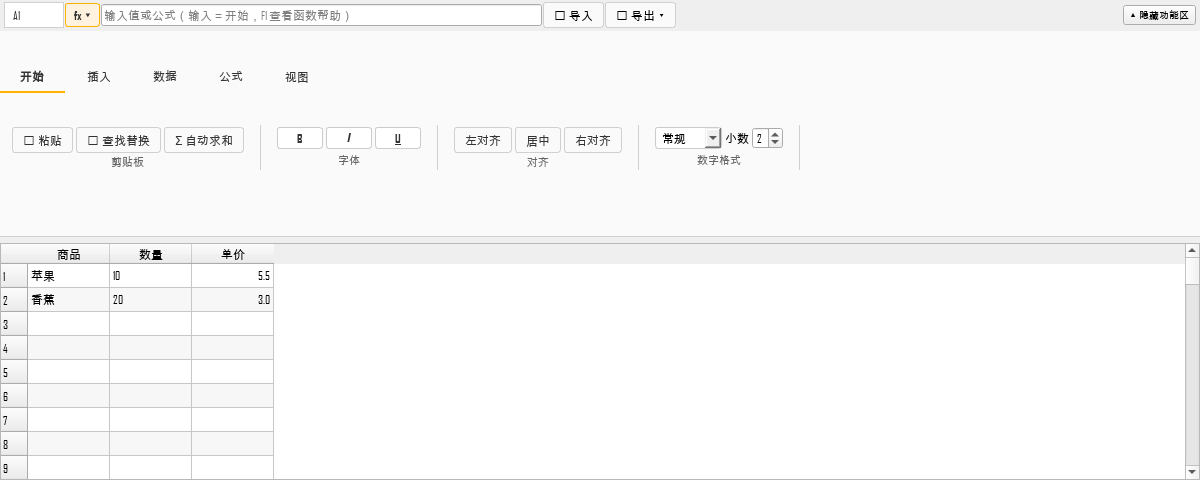
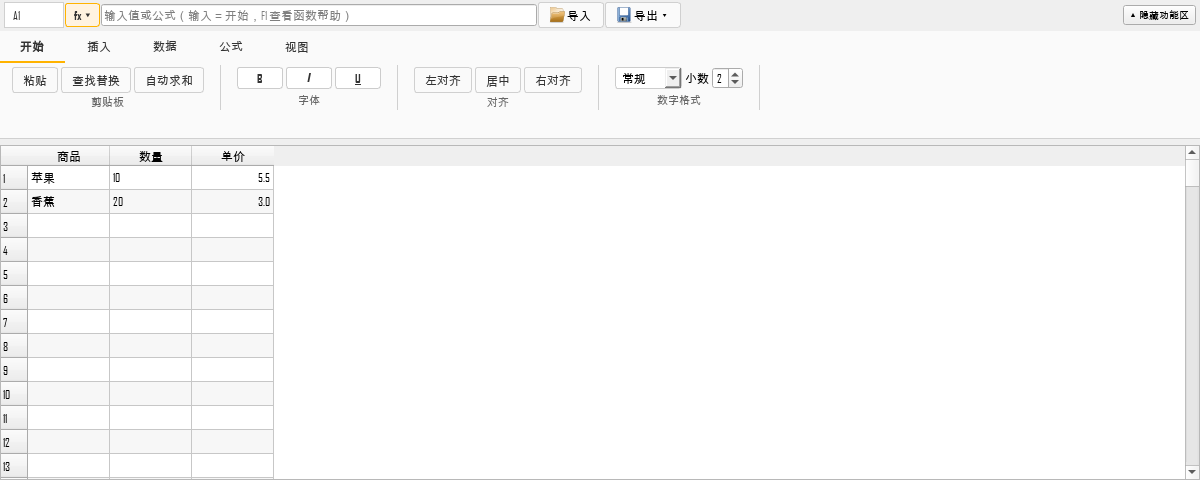
feat(beesheet): WPS 上下文页签/图标/紧凑模式与菜单栏样式

diff --git a/beeoffice/plugins/beesheet_ui_mixin.py b/beeoffice/plugins/beesheet_ui_mixin.py
@@ -44,9 +44,9 @@ from PySide6.QtWidgets import (
     QWidget, QVBoxLayout, QHBoxLayout, QTableView, QHeaderView,
     QLineEdit, QLabel, QPushButton, QComboBox, QSpinBox,
     QListWidget, QAbstractItemView, QProgressBar, QAbstractButton,
-    QGroupBox, QTabBar, QStackedWidget, QFrame, QSizePolicy,
+    QGroupBox, QTabBar, QStackedWidget, QFrame, QSizePolicy, QStyle,
 )
-from PySide6.QtCore import Qt, QTimer
+from PySide6.QtCore import Qt, QTimer, QSettings
 from PySide6.QtGui import QFont, QShortcut, QKeySequence
 
 from beeoffice.plugins.beesheet_delegate import CellEditorDelegate
@@ -227,13 +227,15 @@ class UIMixin:
         self._preview_label.hide()
         t1.addWidget(self._preview_label)
 
-        btn_import = QPushButton(tr("auto.beesheet_ui_mixin.85c5bee6", "📂 导入"))
+        btn_import = QPushButton(tr("auto.beesheet_ui_mixin.85c5bee6", "导入"))
         btn_import.setStyleSheet(btn_style)
+        btn_import.setIcon(self.style().standardIcon(QStyle.SP_DialogOpenButton))
         btn_import.clicked.connect(self._import_file)
         t1.addWidget(btn_import)
 
-        self._export_btn = QPushButton(tr("auto.beesheet_ui_mixin.6810bfb6", "💾 导出 ▾"))
+        self._export_btn = QPushButton(tr("auto.beesheet_ui_mixin.6810bfb6", "导出 ▾"))
         self._export_btn.setStyleSheet(btn_style)
+        self._export_btn.setIcon(self.style().standardIcon(QStyle.SP_DialogSaveButton))
         self._export_btn.clicked.connect(self._show_export_menu)
         t1.addWidget(self._export_btn)
 
@@ -287,6 +289,7 @@ class UIMixin:
         _border = _t()['border']
         _text = _t()['text']
         self._ribbon.setObjectName("BeeRibbon")
+        self._ribbon.setFixedHeight(108)
         self._ribbon.setStyleSheet(
             f"QWidget#BeeRibbon{{background:{_surface};border-bottom:1px solid {_border};}}"
             f"QPushButton{{background:transparent;border:1px solid transparent;"
@@ -304,7 +307,7 @@ class UIMixin:
         ribbon_layout.addWidget(self._ribbon_tabs)
 
         self._ribbon_stack = QStackedWidget()
-        self._ribbon_stack.setFixedHeight(84)
+        self._ribbon_stack.setFixedHeight(76)
         ribbon_layout.addWidget(self._ribbon_stack)
         ribbon_pages = []
 
@@ -348,9 +351,9 @@ class UIMixin:
         # ---------- 开始 ----------
         page_start = add_page("开始")
         clip_group = add_group(page_start, "剪贴板")
-        add_btn(clip_group, tr("auto.beesheet_ui_mixin.a1", "📋 粘贴"), self._smart_paste, "Ctrl+V")
-        add_btn(clip_group, tr("auto.beesheet_ui_mixin.a2", "🔍 查找替换"), self._show_find_replace, "Ctrl+F")
-        add_btn(clip_group, tr("auto.beesheet_ui_mixin.a3", "Σ 自动求和"), self._auto_sum, "Alt+=")
+        add_btn(clip_group, tr("auto.beesheet_ui_mixin.a1", "粘贴"), self._smart_paste, "Ctrl+V")
+        add_btn(clip_group, tr("auto.beesheet_ui_mixin.a2", "查找替换"), self._show_find_replace, "Ctrl+F")
+        add_btn(clip_group, tr("auto.beesheet_ui_mixin.a3", "自动求和"), self._auto_sum, "Alt+=")
 
         font_group = add_group(page_start, "字体")
         self._fmt_bold_btn = QPushButton("B")
@@ -403,55 +406,105 @@ class UIMixin:
         # ---------- 插入 ----------
         page_insert = add_page("插入")
         obj_group = add_group(page_insert, "对象")
-        add_btn(obj_group, tr("auto.beesheet_ui_mixin.b1", "📊 图表"), self._create_chart)
-        add_btn(obj_group, tr("auto.beesheet_ui_mixin.b2", "📊 透视表"), self._show_pivot_table)
-        add_btn(obj_group, tr("auto.beesheet_ui_mixin.b3", "💬 批注"), self._add_comment)
+        add_btn(obj_group, tr("auto.beesheet_ui_mixin.b1", "图表"), self._create_chart)
+        add_btn(obj_group, tr("auto.beesheet_ui_mixin.b2", "透视表"), self._show_pivot_table)
+        add_btn(obj_group, tr("auto.beesheet_ui_mixin.b3", "批注"), self._add_comment)
         tool_group = add_group(page_insert, "数据工具")
-        add_btn(tool_group, tr("auto.beesheet_ui_mixin.b4", "✨ 智能填充"), self._flash_fill)
+        add_btn(tool_group, tr("auto.beesheet_ui_mixin.b4", "智能填充"), self._flash_fill)
 
         # ---------- 数据 ----------
         page_data = add_page("数据")
         sort_group = add_group(page_data, "排序和筛选")
-        add_btn(sort_group, tr("auto.beesheet_ui_mixin.c1", "🔤 排序"), self._show_sort_dialog)
-        add_btn(sort_group, tr("auto.beesheet_ui_mixin.c2", "🔍 筛选"), self._show_filter_dialog)
+        add_btn(sort_group, tr("auto.beesheet_ui_mixin.c1", "排序"), self._show_sort_dialog)
+        add_btn(sort_group, tr("auto.beesheet_ui_mixin.c2", "筛选"), self._show_filter_dialog)
         clean_group = add_group(page_data, "数据工具")
-        add_btn(clean_group, tr("auto.beesheet_ui_mixin.c3", "🔧 清洗"), self._show_clean_menu)
-        add_btn(clean_group, tr("auto.beesheet_ui_mixin.c4", "📋 数据验证"), self._show_data_validation_dialog)
+        add_btn(clean_group, tr("auto.beesheet_ui_mixin.c3", "清洗"), self._show_clean_menu)
+        add_btn(clean_group, tr("auto.beesheet_ui_mixin.c4", "数据验证"), self._show_data_validation_dialog)
 
         # ---------- 公式 ----------
         page_formula = add_page("公式")
         fn_group = add_group(page_formula, "函数")
-        add_btn(fn_group, tr("auto.beesheet_ui_mixin.d1", "ƒx 插入函数"), self._show_function_picker)
-        add_btn(fn_group, tr("auto.beesheet_ui_mixin.d2", "📚 函数参考"), self._show_function_reference)
+        add_btn(fn_group, tr("auto.beesheet_ui_mixin.d1", "插入函数"), self._show_function_picker)
+        add_btn(fn_group, tr("auto.beesheet_ui_mixin.d2", "函数参考"), self._show_function_reference)
         name_group = add_group(page_formula, "名称与审计")
-        add_btn(name_group, tr("auto.beesheet_ui_mixin.d3", "🏷 名称管理"), self._show_name_manager)
-        add_btn(name_group, tr("auto.beesheet_ui_mixin.d4", "🔍 追踪引用"), self._trace_precedents)
-        add_btn(name_group, tr("auto.beesheet_ui_mixin.d5", "🔍 追踪从属"), self._trace_dependents)
-        add_btn(name_group, tr("auto.beesheet_ui_mixin.d6", "💬 自然语言"), self._nl_to_formula)
+        add_btn(name_group, tr("auto.beesheet_ui_mixin.d3", "名称管理"), self._show_name_manager)
+        add_btn(name_group, tr("auto.beesheet_ui_mixin.d4", "追踪引用"), self._trace_precedents)
+        add_btn(name_group, tr("auto.beesheet_ui_mixin.d5", "追踪从属"), self._trace_dependents)
+        add_btn(name_group, tr("auto.beesheet_ui_mixin.d6", "自然语言"), self._nl_to_formula)
 
         # ---------- 视图 ----------
         page_view = add_page("视图")
         freeze_group = add_group(page_view, "冻结窗格")
-        add_btn(freeze_group, tr("auto.beesheet_ui_mixin.e1", "📌 冻结"), self._show_freeze_menu)
-        add_btn(freeze_group, tr("auto.beesheet_ui_mixin.e2", "📌 解冻"), self._unfreeze_all)
+        add_btn(freeze_group, tr("auto.beesheet_ui_mixin.e1", "冻结"), self._show_freeze_menu)
+        add_btn(freeze_group, tr("auto.beesheet_ui_mixin.e2", "解冻"), self._unfreeze_all)
         view_group = add_group(page_view, "显示")
-        add_btn(view_group, tr("auto.beesheet_ui_mixin.e3", "🎨 样式"), self._show_style_menu)
-        add_btn(view_group, tr("auto.beesheet_ui_mixin.e4", "✓ 兼容性"), self._check_excel_compatibility)
-        self._stat_btn = add_btn(view_group, tr("auto.beesheet_ui_mixin.e5", "📊 统计"), self._show_selection_stats)
+        add_btn(view_group, tr("auto.beesheet_ui_mixin.e3", "样式"), self._show_style_menu)
+        add_btn(view_group, tr("auto.beesheet_ui_mixin.e4", "兼容性"), self._check_excel_compatibility)
+        self._stat_btn = add_btn(view_group, tr("auto.beesheet_ui_mixin.e5", "统计"), self._show_selection_stats)
+
+        # ---------- 表格工具（上下文页签，选中多个单元格时显示） ----------
+        page_table = add_page("表格工具")
+        range_group = add_group(page_table, "行列")
+        add_btn(range_group, "插入行", lambda: self._insert_row_at(max(0, self.table_view.currentIndex().row())))
+        add_btn(range_group, "删除行", lambda: self._delete_row_at(max(0, self.table_view.currentIndex().row())))
+        add_btn(range_group, "插入列", lambda: self._insert_column_at(max(0, self.table_view.currentIndex().column())))
+        add_btn(range_group, "删除列", lambda: self._delete_column_at(max(0, self.table_view.currentIndex().column())))
+        cell_group = add_group(page_table, "单元格")
+        add_btn(cell_group, "合并单元格", self._merge_cells)
+        add_btn(cell_group, "冻结当前", self._freeze_cell)
+        add_btn(cell_group, "单元格样式", self._show_style_menu)
+        self._table_tab_index = self._ribbon_tabs.count() - 1
+        self._ribbon_tabs.setTabVisible(self._table_tab_index, False)
 
         for page_layout in ribbon_pages:
             page_layout.addStretch(1)
+
+        # 记住上次打开的页签（WPS 行为）
+        self._ribbon_settings = QSettings("BeeOffice", "BeeSheetRibbon")
+        try:
+            saved_tab = int(self._ribbon_settings.value("ribbon/tab", 0))
+        except (TypeError, ValueError):
+            saved_tab = 0
+        if 0 <= saved_tab < self._ribbon_tabs.count():
+            self._ribbon_tabs.setCurrentIndex(saved_tab)
+            self._ribbon_stack.setCurrentIndex(saved_tab)
         self._ribbon_tabs.currentChanged.connect(self._ribbon_stack.setCurrentIndex)
+        self._ribbon_tabs.currentChanged.connect(
+            lambda idx: self._ribbon_settings.setValue("ribbon/tab", idx)
+        )
         tc.addWidget(self._ribbon)
 
         # 暂存到 self，供主类的 layout 组装
         self._toolbar_container = tc
+
+    # ==================== 上下文页签 ====================
+    def _update_ribbon_context(self, *args):
+        """选中多个单元格时显示“表格工具”上下文页签。"""
+        if not hasattr(self, "_ribbon_tabs") or not hasattr(self, "_table_tab_index"):
+            return
+        indexes = self.table_view.selectionModel().selectedIndexes()
+        show = len(indexes) > 1
+        self._ribbon_tabs.setTabVisible(self._table_tab_index, show)
+        if not show and self._ribbon_tabs.currentIndex() == self._table_tab_index:
+            self._ribbon_tabs.setCurrentIndex(0)
+
+    # ==================== 窄窗口紧凑模式 ====================
+    def resizeEvent(self, event):
+        """窗口变窄时隐藏分组标题，降低功能区高度，接近 WPS 紧凑模式。"""
+        super().resizeEvent(event)
+        if not hasattr(self, "_ribbon"):
+            return
+        compact = self.width() < 980
+        for group in self._ribbon.findChildren(RibbonGroup):
+            group.title.setVisible(not compact)
+        self._ribbon.setFixedHeight(96 if compact else 108)
 
     # ==================== 表格视图 ====================
     def _build_table_view(self):
         """构建主表格视图 + 事件连接 + 填充柄"""
         self.table_view = QTableView()
         self.table_view.setModel(self.model)
+        self.table_view.selectionModel().selectionChanged.connect(self._update_ribbon_context)
         self.table_view.horizontalHeader().setSectionResizeMode(
             QHeaderView.Interactive
         )

diff --git a/tests/qt/test_beesheet_ribbon.py b/tests/qt/test_beesheet_ribbon.py
@@ -17,11 +17,12 @@ def make_sheet(qtbot):
 def test_ribbon_categories(qtbot):
     sheet = make_sheet(qtbot)
     tabs = sheet._ribbon_tabs
-    assert tabs.count() == 5
+    assert tabs.count() == 6
     names = [tabs.tabText(i) for i in range(tabs.count())]
-    assert names == ["开始", "插入", "数据", "公式", "视图"]
+    assert names == ["开始", "插入", "数据", "公式", "视图", "表格工具"]
+    assert tabs.isTabVisible(5) is False
 
-    for i in range(tabs.count()):
+    for i in range(5):
         tabs.setCurrentIndex(i)
         assert sheet._ribbon_stack.currentIndex() == i
 
@@ -53,7 +54,33 @@ def test_ribbon_toggle(qtbot):
 def test_ribbon_actions_exist(qtbot):
     sheet = make_sheet(qtbot)
     labels = {b.text() for b in sheet._ribbon.findChildren(QPushButton)}
-    for required in ("📋 粘贴", "🔍 查找替换", "Σ 自动求和", "📊 图表",
-                     "📊 透视表", "💬 批注", "🔤 排序", "🔍 筛选",
-                     "🔧 清洗", "ƒx 插入函数", "📌 冻结", "🎨 样式"):
+    for required in ("粘贴", "查找替换", "自动求和", "图表",
+                     "透视表", "批注", "排序", "筛选",
+                     "清洗", "插入函数", "冻结", "样式"):
         assert required in labels
+
+
+def test_contextual_table_tab(qtbot):
+    sheet = make_sheet(qtbot)
+    tabs = sheet._ribbon_tabs
+    assert tabs.isTabVisible(5) is False
+    sheet.table_view.selectAll()
+    qtbot.wait(10)
+    assert tabs.isTabVisible(5) is True
+    sheet.table_view.clearSelection()
+    qtbot.wait(10)
+    assert tabs.isTabVisible(5) is False
+
+
+def test_compact_on_narrow_window(qtbot):
+    sheet = make_sheet(qtbot)
+    sheet.resize(1200, 500)
+    sheet.show()
+    qtbot.wait(20)
+    groups = sheet._ribbon.findChildren(RibbonGroup)
+    assert groups
+    assert all(not g.title.isHidden() for g in groups)
+    sheet.resize(820, 500)
+    qtbot.wait(20)
+    assert all(g.title.isHidden() for g in groups)
+    assert sheet._ribbon.height() == 96

diff --git a/beeoffice/theme.py b/beeoffice/theme.py
@@ -172,8 +172,9 @@ class Theme:
         return f"""
         * {{ }}
         QMainWindow {{ background-color: #F5F5F5; }}
-        QMenuBar {{ background-color: #FAFAFA; border-bottom: 1px solid #E0E0E0; padding: 2px; font-size: 13px; }}
-        QMenuBar::item:selected {{ background-color: {al}; color: {ad}; border-radius: 4px; }}
+        QMenuBar {{ background-color: #F7F8FA; border-bottom: 1px solid #E4E7EC; padding: 2px 8px; font-size: 13px; spacing: 2px; }}
+        QMenuBar::item {{ background: transparent; padding: 6px 14px; border-radius: 6px; }}
+        QMenuBar::item:selected {{ background-color: {al}; color: {ad}; }}
         QMenu {{ background-color: #FFFFFF; border: 1px solid #E0E0E0; border-radius: 8px; padding: 4px; }}
         QMenu::item {{ padding: 6px 24px; border-radius: 4px; }}
         QMenu::item:selected {{ background-color: {al}; color: {ad}; }}
@@ -219,8 +220,9 @@ class Theme:
         return f"""
         * {{ }}
         QMainWindow {{ background-color: #1E1E1E; }}
-        QMenuBar {{ background-color: #2D2D2D; color: #CCC; border-bottom: 1px solid #3D3D3D; font-size: 13px; }}
-        QMenuBar::item:selected {{ background-color: {a}; color: #000; border-radius: 4px; }}
+        QMenuBar {{ background-color: #252525; color: #CCC; border-bottom: 1px solid #3D3D3D; padding: 2px 8px; font-size: 13px; spacing: 2px; }}
+        QMenuBar::item {{ background: transparent; padding: 6px 14px; border-radius: 6px; }}
+        QMenuBar::item:selected {{ background-color: {a}; color: #000; }}
         QMenu {{ background-color: #2D2D2D; color: #CCC; border: 1px solid #3D3D3D; border-radius: 8px; padding: 4px; }}
         QMenu::item {{ padding: 6px 24px; border-radius: 4px; }}
         QMenu::item:selected {{ background-color: {a}; color: #000; }}

diff --git a/docs/BeeSheet-分类功能区-2026-11-13.md b/docs/BeeSheet-分类功能区-2026-11-13.md
@@ -34,6 +34,10 @@
 
 ![BeeSheet Ribbon](beesheet-ribbon-2026-11-13.png)
 
+表格工具上下文页签（选中多个单元格时出现）：
+
+![BeeSheet 表格工具](beesheet-ribbon-context-2026-11-13.png)
+
 数据页示例：
 
 ![BeeSheet 数据页](beesheet-ribbon-data-2026-11-13.png)
@@ -43,6 +47,12 @@
 ![BeeSheet 初始网格](beesheet-grid-2026-11-13.png)
 
 ## UI 细化
+
+- 去掉 emoji，导入/导出使用 Qt 标准图标，其余按钮统一文本；
+- 选中多个单元格时自动显示“表格工具”上下文页签；
+- 记住上次打开的页签（QSettings）；
+- 窗口宽度 <980px 时隐藏组标题，进入紧凑模式；
+- 主窗口 QMenuBar 改为 WPS 风格扁平样式。
 
 - 组名改为底部小字（WPS 风格），去掉重边框；
 - 组之间加细竖线分隔；

diff --git a/CHANGELOG.md b/CHANGELOG.md
@@ -17,6 +17,10 @@
 - 新增 5 个分类页签：开始 / 插入 / 数据 / 公式 / 视图；
 - 每个分类按功能分组（剪贴板、字体、对齐、数字格式、对象、函数、名称与审计、冻结窗格等）；
 - 组名改为底部小字、去重边框、组间竖线；Tab/按钮使用主题 accent 状态。
+- 去掉 emoji，导入/导出改用系统标准图标；
+- 选中多格显示“表格工具”上下文页签；
+- 记住上次页签；窄窗口自动隐藏组标题；
+- 主窗口 QMenuBar 同步 WPS 扁平样式。
 - 隐藏/展开功能区按钮保留；
 - 删除旧的无引用翻译键 8 个。
 
